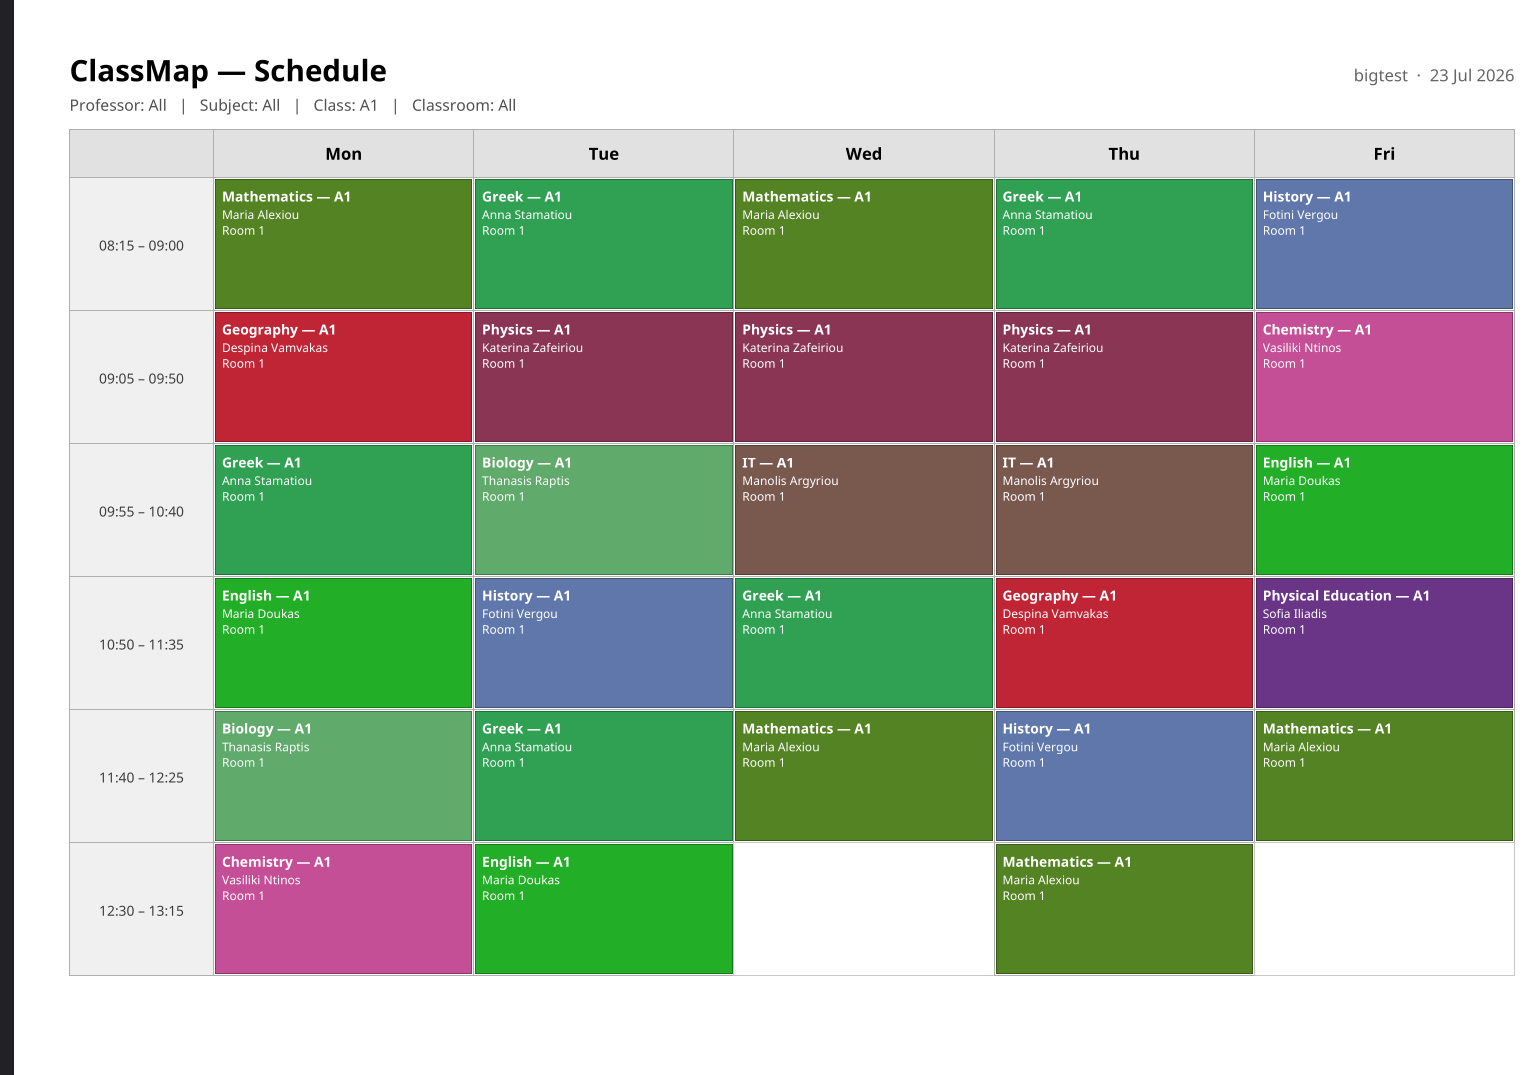
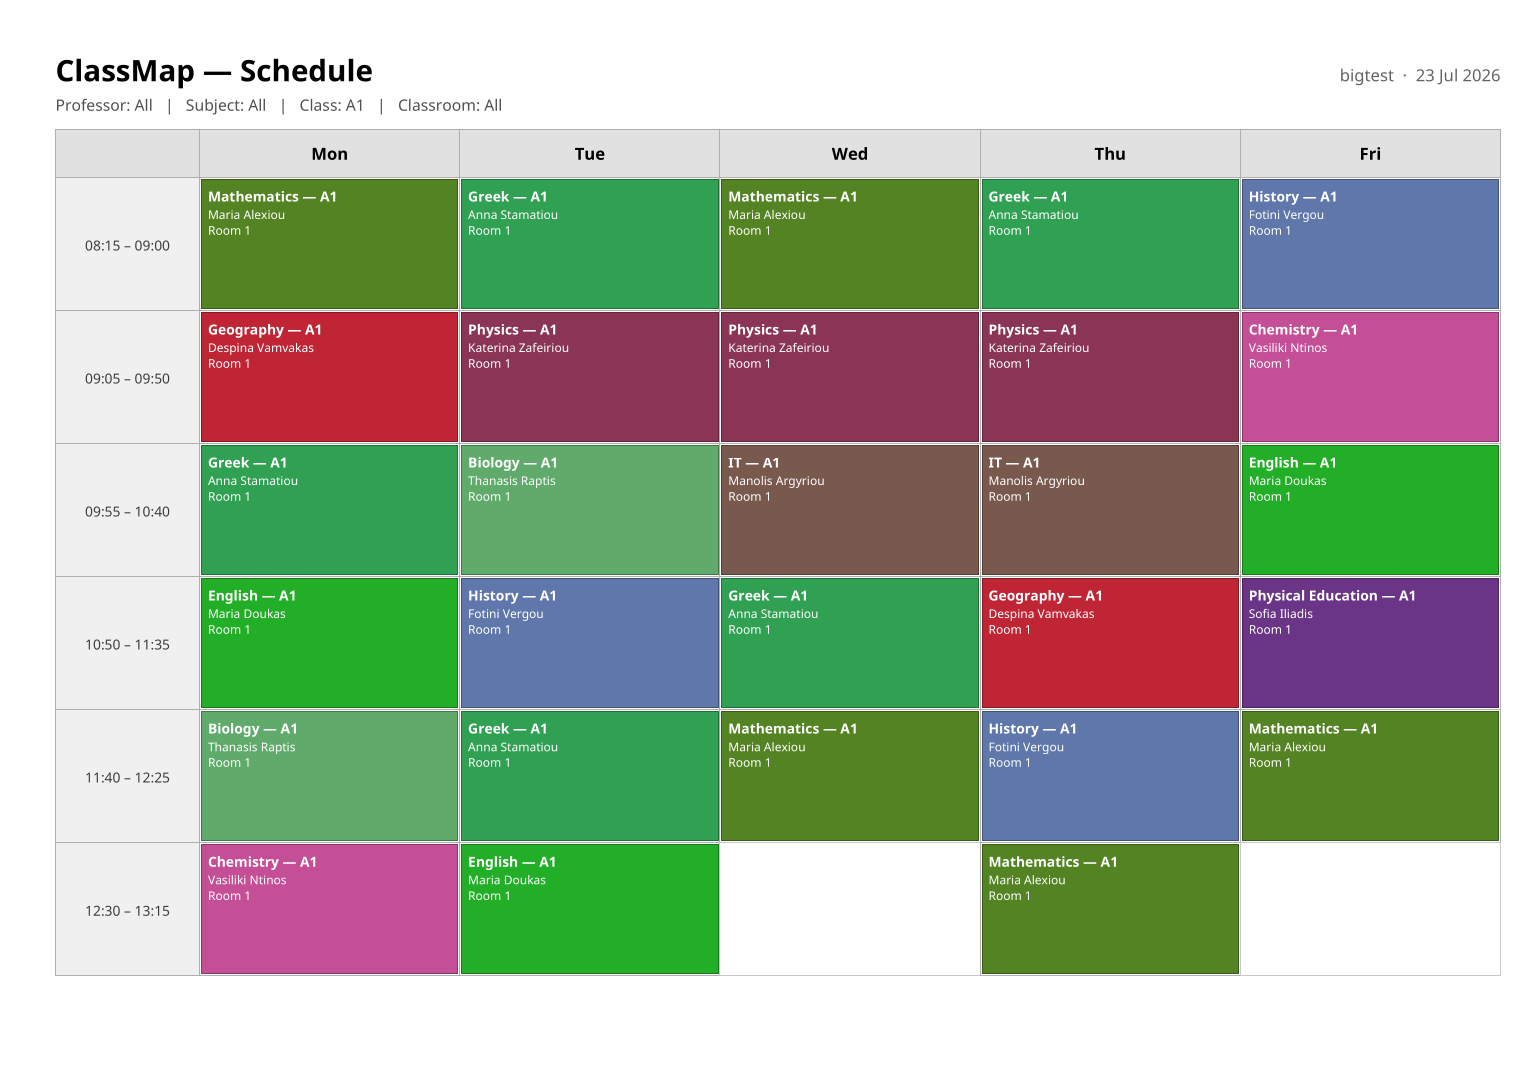
Fix hero image edge, scroll promo button to contact section
- Re-crop the hero schedule screenshot to trim a faint dark line that
  was left on the left edge from the original PDF viewer chrome.
- "Claim Your Spot" now scrolls to the download/contact section
  (#download) instead of opening a mailto link directly — removed the
  now-unused promo.subject i18n field.
- Added smooth scroll-behavior site-wide and a scroll-margin-top on
  anchor-target sections so the sticky navbar doesn't cover the
  section heading after scrolling (also improves the existing
  "Learn More" -> #features link).

diff --git a/src/pages/Landing.jsx b/src/pages/Landing.jsx
@@ -68,10 +68,7 @@ export default function Landing() {
 
             <p className="promo__note">{promo.note}</p>
 
-            <a
-              href={`mailto:${t.contact.email}?subject=${encodeURIComponent(promo.subject)}`}
-              className="btn btn-accent"
-            >
+            <a href="#download" className="btn btn-accent">
               {promo.btn}
             </a>
           </div>
@@ -109,7 +106,7 @@ export default function Landing() {
       </section>
 
       {/* ── CTA banner ────────────────────────────────── */}
-      <section className="cta-banner">
+      <section id="download" className="cta-banner">
         <div className="container">
           <h2>{cta.title}</h2>
           <p>{cta.sub}</p>

diff --git a/src/i18n/el.js b/src/i18n/el.js
@@ -47,7 +47,6 @@ const el = {
       },
       note: 'Σημείωση: Όλοι οι χρήστες έχουν άμεση, δωρεάν πρόσβαση κατά τη διάρκεια της beta. Επικοινωνήστε μαζί μας σήμερα για να κλειδώσετε τη θέση σας.',
       btn: 'Διεκδικήστε τη Θέση σας',
-      subject: 'Προσφορά Δωρεάν Άδειας',
     },
     team: {
       title: 'Γνωρίστε την Ομάδα',

diff --git a/src/index.css b/src/index.css
@@ -5,6 +5,15 @@
   padding: 0;
 }
 
+html {
+  scroll-behavior: smooth;
+}
+
+/* Offset anchor-scroll targets so the sticky navbar doesn't cover them */
+section[id] {
+  scroll-margin-top: 80px;
+}
+
 :root {
   /* Brand colours — exact values from the app icon */
   --color-primary:     #4961b0;

diff --git a/src/i18n/en.js b/src/i18n/en.js
@@ -47,7 +47,6 @@ const en = {
       },
       note: 'Note: Everyone gets immediate free access during the beta phase. Contact us today to lock in your lifetime deal.',
       btn: 'Claim Your Spot',
-      subject: 'Free Lifetime License Offer',
     },
     team: {
       title: 'Meet the Team',
